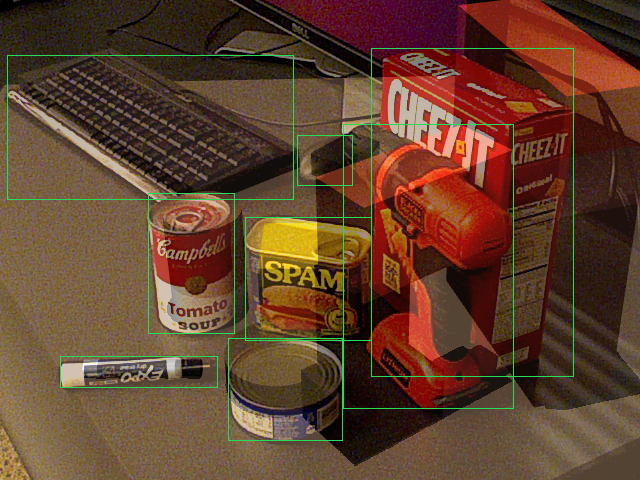
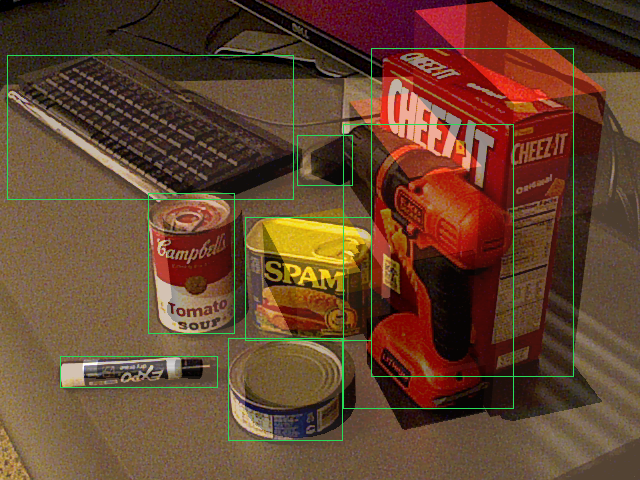
fidelity: compound footprint = ground-contact parts (de-overlap no longer pushes on the drill's full length); depth-ordered don't-care masks; keep baseline yaw unless IoU gain >= 0.02. real_ycbv59: mean IoU 0.553 -> 0.635, dE 21.7 -> 16.3, median pos err 1.9 -> 1.5 cm

diff --git a/rehearsal/perception.py b/rehearsal/perception.py
@@ -783,7 +783,7 @@ def refine_orientation(cam, o: dict, shape: dict, xy, yaw: float, w: int, h: int
         lam = 0.03 / 0.02 ** 2 * (0.1 if free_xy else 1.0)
         loss = lambda p: 1 - iou(shp, p[1], p[2], p[0]) + lam * float(np.sum((p[1:] - xy0) ** 2))
         best = None
-        sym = np.pi if shp["type"] in ("box", "compound") and not shp.get("axis") else 2 * np.pi
+        sym = np.pi if shp["type"] == "box" else 2 * np.pi   # a compound (drill) is not symmetric end to end
         if shp["type"] == "cylinder" and shp.get("axis", "z") == "z":
             grid = [0.0]
         else:
@@ -796,6 +796,10 @@ def refine_orientation(cam, o: dict, shape: dict, xy, yaw: float, w: int, h: int
             p, v = _nelder_mead(loss, best[0], [0.15, 0.015, 0.015], iters=120)
             best = (p, v)
         p, v = best
+        if not free_xy:  # keep the baseline yaw unless the refinement clearly explains the mask better
+            v0 = loss(np.array([yaw, *xy0]))
+            if v0 - v < 0.02:
+                p = np.array([yaw, *xy0])
         return p, iou(shp, p[1], p[2], p[0])
 
     if shape["type"] == "cylinder" and shape.get("axis", "z") == "z" and shape["height"] > 2.2 * 2 * shape["radius"]:
@@ -815,8 +819,10 @@ def refine_orientation(cam, o: dict, shape: dict, xy, yaw: float, w: int, h: int
             best = r
     name, shp, p, v = best
     yaw_out = float(p[0])
-    if shp["type"] in ("box", "compound") and not shp.get("axis"):
+    if shp["type"] == "box":
         yaw_out = float(((yaw_out + np.pi / 2) % np.pi) - np.pi / 2)
+    elif shp["type"] == "compound":
+        yaw_out = float(((yaw_out + np.pi) % (2 * np.pi)) - np.pi)
     elif shp.get("axis") == "x":
         yaw_out = float(((yaw_out + np.pi / 2) % np.pi) - np.pi / 2)   # a lying cylinder is symmetric end to end
     return shp, [float(p[1]), float(p[2])], yaw_out, {"pose": name, "iou_before": round(base[3] if name != "standing" else iou(shape, xy0[0], xy0[1], yaw), 3),
@@ -840,9 +846,14 @@ def apply_fidelity(objects: list[dict], raw_objs: list[dict], cam, img: Image.Im
     if img is None:
         return
     lab = srgb_to_lab(np.asarray(img.convert("RGB"), float) / 255.0)
+    cxy = cam.center[:2]
+    dist = {id(o): float(np.linalg.norm(np.asarray(obj["pos"]) - cxy)) for obj, o in zip(objects, raw_objs)}
     for obj, o in zip(objects, raw_objs):
         if o.get("mask") is None:
             continue
+        # Only objects nearer the camera may hide this one (don't-care); a farther object's mask must stay
+        # uncovered, otherwise the silhouette grows over its neighbours (the drill body over the Spam can).
+        nearer = [r for r in raw_objs if r is not o and dist.get(id(r), 0.0) < dist[id(o)]]
         M = _mask_full(o, w, h)
         if M is None:
             continue
@@ -861,7 +872,7 @@ def apply_fidelity(objects: list[dict], raw_objs: list[dict], cam, img: Image.Im
                     part["rgba"] = primary if part["rgba"] == secondary else secondary
             shape = tpl
             fid["template"] = tpl["template"]
-        shape, xy, yaw, info = refine_orientation(cam, o, shape, obj["pos"], obj.get("yaw", 0.0), w, h, raw_objs)
+        shape, xy, yaw, info = refine_orientation(cam, o, shape, obj["pos"], obj.get("yaw", 0.0), w, h, nearer)
         fid.update(info)
         obj["shape"], obj["pos"], obj["yaw"] = shape, [round(xy[0], 4), round(xy[1], 4)], round(yaw, 4)
         if shape["type"] in ("box", "cylinder"):

diff --git a/rehearsal/scene.py b/rehearsal/scene.py
@@ -54,10 +54,28 @@ def object_height(obj: dict) -> float:
     return shape_bbox(obj["shape"])[2]
 
 
+def contact_extent(s: dict) -> tuple[list[float], list[float]]:
+    """([cx, cy], [sx, sy]) of the part of the shape that touches the table, in the object frame: the whole
+    footprint for primitives; for a compound only the parts whose bottom reaches the bounding box's bottom
+    (a drill stands on its battery, not on its full length)."""
+    bb = shape_bbox(s)
+    if s["type"] != "compound":
+        return [0.0, 0.0], bb[:2]
+    lo, hi = np.full(2, np.inf), np.full(2, -np.inf)
+    for p in s["parts"]:
+        pb = shape_bbox(p)
+        c = np.asarray(p.get("pos", [0, 0, 0]), float)
+        if c[2] - pb[2] / 2 <= -bb[2] / 2 + 0.005:
+            lo, hi = np.minimum(lo, c[:2] - np.asarray(pb[:2]) / 2), np.maximum(hi, c[:2] + np.asarray(pb[:2]) / 2)
+    if not np.all(np.isfinite(lo)):
+        return [0.0, 0.0], bb[:2]
+    return ((lo + hi) / 2).tolist(), (hi - lo).tolist()
+
+
 def footprint_radius(obj: dict) -> float:
     """Radius of the object's horizontal footprint (used by `on`/`inside`)."""
-    bb = shape_bbox(obj["shape"])
-    return 0.5 * min(bb[0], bb[1])
+    _, ext = contact_extent(obj["shape"])
+    return 0.5 * min(ext[0], ext[1])
 
 
 def footprint_polygon(obj: dict, n: int = 16) -> np.ndarray:
@@ -67,9 +85,9 @@ def footprint_polygon(obj: dict, n: int = 16) -> np.ndarray:
     if s["type"] in ("cylinder", "bowl") and s.get("axis", "z") == "z":
         a = np.linspace(0, 2 * np.pi, n, endpoint=False)
         return np.c_[np.cos(a), np.sin(a)] * s["radius"] + pos
-    L, W = shape_bbox(s)[:2]
+    ctr, (L, W) = contact_extent(s)
     c, si = np.cos(yaw), np.sin(yaw)
-    loc = np.array([[L / 2, W / 2], [-L / 2, W / 2], [-L / 2, -W / 2], [L / 2, -W / 2]])
+    loc = np.array([[L / 2, W / 2], [-L / 2, W / 2], [-L / 2, -W / 2], [L / 2, -W / 2]]) + ctr
     return loc @ np.array([[c, si], [-si, c]]) + pos
 
 
